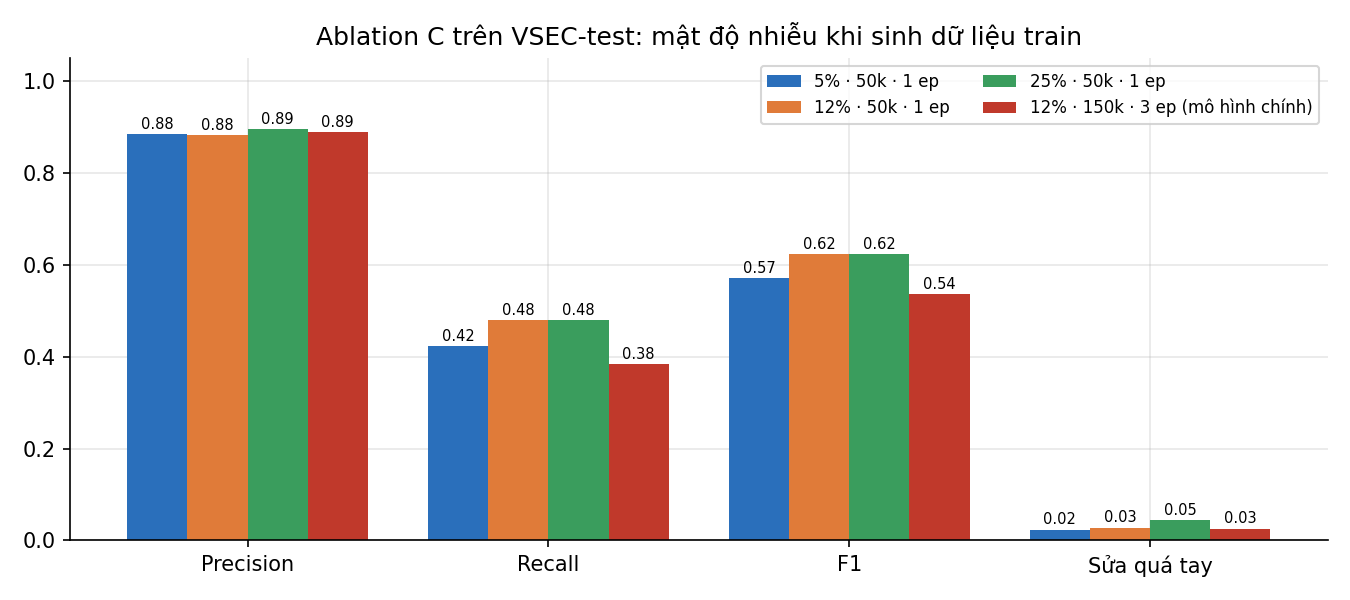
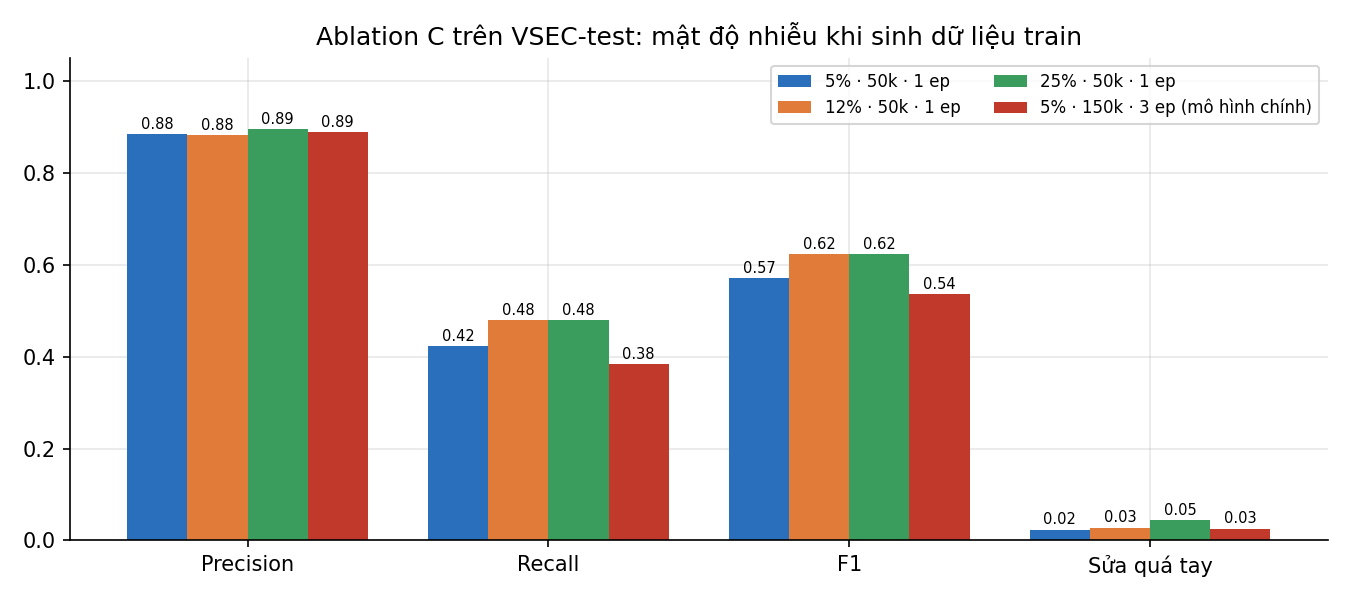
Sửa 4 lỗi review: nhãn mật độ nhiễu, BARTpho cắt câu dài, n-gram phá hòa, đóng gói v4
- Ablation C: mô hình chính train trên syn_train.jsonl mật độ 5% (không phải 12%); sửa nhãn,
  sinh lại bảng/hình, so sánh quy mô với d05 (0,572 -> 0,536 trên VSEC)
- BartphoCorrector: câu vượt max_length được chia đoạn (split_long), sửa từng đoạn rồi ghép
- CandidateGenerator: thêm chuỗi ứng viên vào khóa sắp xếp, kết quả không phụ thuộc PYTHONHASHSEED
  (dự đoán đã lưu của A và A+S4 trên 3 tập test không đổi)
- pack_for_kaggle: thêm syn_train_v4

Changed region(s): [[0.56, 0.12, 0.9644, 0.21]]

diff --git a/src/vspell/models/bartpho.py b/src/vspell/models/bartpho.py
@@ -232,11 +232,45 @@ def train(config: dict, train_path: str, val_path: str) -> str:
 
 # ---------------------------------------------------------------- suy luận
 
+_CUT_AFTER = (".", ",", ";", ":", "!", "?", "…", ")", '"')
+
+
+def split_long(text: str, n_tokens, max_tokens: int) -> list[str]:
+    """Chia câu dài thành các đoạn (tách tại khoảng trắng) sao cho mỗi đoạn có `n_tokens(đoạn) <= max_tokens`.
+
+    Ghép lại bằng " " ra đúng câu vào (câu đã `normalize` nên khoảng trắng là một dấu cách). Ưu tiên cắt sau
+    dấu câu nếu điểm cắt đó nằm ở nửa sau của đoạn. Một từ đơn lẻ dài hơn giới hạn vẫn thành một đoạn riêng
+    (tokenizer sẽ cắt nó). Câu ngắn trả về nguyên [text].
+    """
+    if n_tokens(text) <= max_tokens:
+        return [text]
+    chunks: list[str] = []
+    cur: list[str] = []
+    for w in text.split(" "):
+        if cur and n_tokens(" ".join(cur + [w])) > max_tokens:
+            cut = max((k for k in range(len(cur) // 2, len(cur)) if cur[k].endswith(_CUT_AFTER)), default=None)
+            if cut is None or cut == len(cur) - 1:
+                chunks.append(" ".join(cur))
+                cur = []
+            else:
+                chunks.append(" ".join(cur[:cut + 1]))
+                cur = cur[cut + 1:]
+            # phần còn lại cộng từ mới vẫn có thể quá dài -> đẩy tiếp
+            while cur and n_tokens(" ".join(cur + [w])) > max_tokens:
+                chunks.append(" ".join(cur))
+                cur = []
+        cur.append(w)
+    if cur:
+        chunks.append(" ".join(cur))
+    return chunks
+
+
 class BartphoCorrector:
     """Sửa lỗi theo batch bằng beam search. Đầu ra đã qua `normalize`.
 
     max_length: độ dài tối đa (token) của câu vào; câu ra được phép dài hơn câu vào một chút
-    (`len_ratio`, `len_extra`). Câu vào được sắp theo độ dài để giảm padding, rồi trả về đúng thứ tự.
+    (`len_ratio`, `len_extra`). Câu vào dài hơn `max_length` được chia đoạn (`split_long`), sửa từng đoạn
+    rồi ghép lại. Các đoạn được sắp theo độ dài để giảm padding, rồi trả về đúng thứ tự.
     """
 
     def __init__(self, checkpoint: str, num_beams: int = 4, max_length: int = 256, device: str | None = None,
@@ -264,11 +298,19 @@ class BartphoCorrector:
         from tqdm import tqdm
 
         srcs = [normalize(s) for s in sentences]
-        order = sorted(range(len(srcs)), key=lambda i: len(srcs[i]), reverse=True)
-        out: list[str | None] = [None] * len(srcs)
+        # Câu dài hơn max_length token: chia thành đoạn, sửa từng đoạn rồi ghép lại (không cắt mất phần cuối).
+        n_tok = lambda t: len(self.tokenizer(to_bartpho_style(t))["input_ids"])  # noqa: E731
+        pieces: list[str] = []
+        owner: list[int] = []
+        for i, src in enumerate(srcs):
+            for part in split_long(src, n_tok, self.max_length):
+                pieces.append(part)
+                owner.append(i)
+        order = sorted(range(len(pieces)), key=lambda i: len(pieces[i]), reverse=True)
+        fixed: list[str | None] = [None] * len(pieces)
         for start in tqdm(range(0, len(order), batch_size), desc="bartpho", unit="batch"):
             idx = order[start:start + batch_size]
-            batch = [to_bartpho_style(srcs[i]) for i in idx]
+            batch = [to_bartpho_style(pieces[i]) for i in idx]
             enc = self.tokenizer(batch, max_length=self.max_length, truncation=True,
                                  padding=True, return_tensors="pt").to(self.device)
             max_new = int(enc["input_ids"].shape[1] * self.len_ratio) + self.len_extra
@@ -276,5 +318,9 @@ class BartphoCorrector:
                 gen = self.model.generate(**enc, num_beams=self.num_beams, max_new_tokens=max_new,
                                           early_stopping=True)
             for i, text in zip(idx, self.tokenizer.batch_decode(gen, skip_special_tokens=True)):
-                out[i] = postprocess(srcs[i], text) if text.strip() else srcs[i]  # câu rỗng -> giữ nguyên câu vào
+                fixed[i] = postprocess(pieces[i], text) if text.strip() else pieces[i]  # rỗng -> giữ đoạn vào
+        parts: list[list[str]] = [[] for _ in srcs]
+        for i, text in zip(owner, fixed):
+            parts[i].append(text)  # type: ignore[arg-type]
+        out = [" ".join(p) for p in parts]
         return out  # type: ignore[return-value]

diff --git a/tests/test_bartpho.py b/tests/test_bartpho.py
@@ -101,3 +101,27 @@ def test_to_bartpho_style_and_postprocess():
     assert normalize(to_bartpho_style(s)) == s
     assert postprocess("a…", "a...") == "a…"
     assert postprocess("a...", "a...") == "a..."
+
+
+def test_split_long_keeps_all_words():
+    from vspell.models.bartpho import split_long
+
+    n = lambda t: len(t.split()) + 2  # noqa: E731  (2 token đặc biệt)
+    text = "một hai ba , bốn năm sáu bảy . tám chín mười mười một"
+    assert split_long("ngắn thôi", n, 10) == ["ngắn thôi"]
+    parts = split_long(text, n, 7)
+    assert " ".join(parts) == text
+    assert all(n(p) <= 7 for p in parts)
+    assert parts[0].endswith(",") or parts[0].endswith(".")  # ưu tiên cắt sau dấu câu
+
+
+def test_correct_long_sentence_not_truncated(tiny_model):
+    """Câu vượt max_length phải được chia đoạn: với mô hình 'chép lại' đầu vào, đầu ra phải đủ cả câu."""
+    corr = BartphoCorrector(tiny_model, num_beams=1, max_length=8)
+    corr.model.generate = lambda input_ids, **kw: input_ids  # mô hình đồng nhất
+    long = " ".join(s for s, _ in PAIRS[:3])  # 3 câu ~ 20 token, gấp ~2,5 lần giới hạn
+    short = PAIRS[4][0]
+    out = corr.correct([long, short], batch_size=2)
+    from vspell.normalize import normalize, split_syllables
+    # tokenizer tí hon giải mã có dấu cách trước dấu câu -> so theo âm tiết
+    assert [split_syllables(o) for o in out] == [split_syllables(normalize(x)) for x in (long, short)]

diff --git a/tests/test_ngram.py b/tests/test_ngram.py
@@ -90,3 +90,22 @@ def test_s4_rules_off_by_default_and_reduce_edits():
     # Từ không dấu, sai cấu trúc âm tiết TV ("vàngs" kiểu Telex vẫn sửa được): "vanga" không bị sửa thành "vàng"
     assert "vàng" not in [c for c, _ in s4._options("vanga", False)]
     assert base.edit_margin == 0.0 and not base.ignore_iy
+
+
+def test_candidates_deterministic_across_hash_seeds():
+    """Ứng viên bằng chi phí và tần suất phải ra cùng thứ tự dù PYTHONHASHSEED khác (cắt ở max_candidates)."""
+    import os
+    import subprocess
+    import sys
+    from pathlib import Path
+
+    code = ("from vspell.models.ngram_corrector import CandidateGenerator\n"
+            "lex = {w: 5 for w in ['cat', 'mat', 'hat', 'bot', 'but', 'ban', 'bao', 'bam', 'tat', 'nat']}\n"
+            "print([c for c, _, _ in CandidateGenerator(lex, 2, 3).candidates('bat')])")
+    src = str(Path(__file__).resolve().parents[1] / "src")
+    outs = set()
+    for seed in ["0", "1", "2", "3", "42"]:
+        env = {**os.environ, "PYTHONHASHSEED": seed, "PYTHONPATH": src, "PYTHONUTF8": "1"}
+        outs.add(subprocess.run([sys.executable, "-c", code], env=env, capture_output=True, text=True,
+                                check=True).stdout)
+    assert len(outs) == 1

diff --git a/src/vspell/models/ngram_corrector.py b/src/vspell/models/ngram_corrector.py
@@ -140,7 +140,7 @@ class CandidateGenerator:
         return outs
 
     def _candidates(self, tok: str) -> tuple[tuple[str, str, float], ...]:
-        """tok (chữ thường) -> ((ứng viên, nguồn, chi phí), ...) sắp theo chi phí rồi tần suất; không gồm tok."""
+        """tok (chữ thường) -> ((ứng viên, nguồn, chi phí), ...) sắp theo chi phí, tần suất, rồi chữ cái; không gồm tok."""
         found: dict[str, tuple[str, float]] = {}
 
         def add(cand: str, source: str) -> None:
@@ -167,7 +167,8 @@ class CandidateGenerator:
                 add(c, "edit1")
             elif dist == 2 and self.max_d >= 2:
                 add(c, "edit2")
-        ranked = sorted(found.items(), key=lambda kv: (-kv[1][1], -self.lexicon[kv[0]]))
+        # phá hòa bằng chính chuỗi ứng viên: `pool` là set nên thứ tự duyệt phụ thuộc PYTHONHASHSEED
+        ranked = sorted(found.items(), key=lambda kv: (-kv[1][1], -self.lexicon[kv[0]], kv[0]))
         return tuple((c, src, cost) for c, (src, cost) in ranked[:self.max_candidates])
 
 

diff --git a/scripts/analyze_errors.py b/scripts/analyze_errors.py
@@ -49,7 +49,7 @@ MODEL_LABEL = {"ngram": "A: n-gram (3-gram KN)", "bartpho": "C: BARTpho v3", "id
                "bartpho_v4": "C: BARTpho v4 (nhiễu dấu)", "bartpho_d12": "C: BARTpho d12 (50k, 1 ep)"}
 # Ablation C (mật độ nhiễu khi sinh dữ liệu train): tag -> (mật độ, nhãn)
 ABLATION_C = {"bartpho_d05": (0.05, "5% · 50k · 1 ep"), "bartpho_d12": (0.12, "12% · 50k · 1 ep"),
-              "bartpho_d25": (0.25, "25% · 50k · 1 ep"), "bartpho": (0.12, "12% · 150k · 3 ep\n(mô hình chính)")}
+              "bartpho_d25": (0.25, "25% · 50k · 1 ep"), "bartpho": (0.05, "5% · 150k · 3 ep\n(mô hình chính)")}
 CAT_LABEL = {"sua_dung": "Sửa đúng", "sua_sai": "Sửa sai ứng viên", "bo_sot": "Bỏ sót",
              "sua_qua_tay": "Sửa quá tay"}
 SUB_LABEL = {"so_ky_hieu": "Số/ký hiệu", "ten_rieng": "Tên riêng/viết hoa",

diff --git a/scripts/pack_for_kaggle.py b/scripts/pack_for_kaggle.py
@@ -11,7 +11,7 @@ import json
 import os
 from pathlib import Path
 
-TRAIN = ["syn_train", "syn_train_d05", "syn_train_d12", "syn_train_d25"]
+TRAIN = ["syn_train", "syn_train_d05", "syn_train_d12", "syn_train_d25", "syn_train_v4"]
 EVAL = ["syn_val", "syn_test", "vsec_test", "viwiki_test"]
 
 

diff --git a/report/phan_tich_A_vs_C.md b/report/phan_tich_A_vs_C.md
@@ -89,10 +89,12 @@ Kết quả trên VSEC-test (`ablation_noise_density.csv`, hình `ablation_noise
 | 5% nhiễu · 50k cặp · 1 epoch | 0,884 | 0,422 | 0,572 | 0,024 |
 | 12% · 50k · 1 epoch | 0,882 | **0,480** | 0,622 | 0,028 |
 | 25% · 50k · 1 epoch | 0,895 | 0,479 | **0,624** | 0,045 |
-| 12% · 150k · 3 epoch (mô hình chính) | 0,888 | 0,384 | 0,536 | 0,026 |
+| 5% · 150k · 3 epoch (mô hình chính, v3) | 0,888 | 0,384 | 0,536 | 0,026 |
+
+*Mô hình chính train trên `syn_train.jsonl`, sinh bằng `configs/noise.yaml` với mật độ 5% (`syn_train.stats.json`: `syllable_error_rate` 0,05), không phải 12%. Vì vậy mốc so sánh đúng cho quy mô huấn luyện là dòng 5% · 50k, không phải dòng 12%.*
 
 - **Mật độ nhiễu:** tăng từ 5% lên 12% làm recall tăng 6 điểm, còn precision gần như không đổi. Lên 25% thì F1 không tăng thêm, trong khi tỉ lệ sửa quá tay gần gấp đôi. Mức 12% là điểm cân bằng hợp lý.
-- **Quy mô huấn luyện:** mô hình chính được train nhiều hơn khoảng 9 lần (150k cặp × 3 epoch). Nó tốt hơn trên Syn-test nhưng **kém hơn** trên VSEC (0,536 so với 0,622). Train càng lâu trên dữ liệu tổng hợp, mô hình càng khớp với phân bố nhiễu tự sinh và càng ít dám sửa những lỗi không giống dữ liệu train. Vì vậy, chọn checkpoint theo Syn-val không phải là tiêu chí tốt khi mục tiêu là lỗi thật.
+- **Quy mô huấn luyện** (cùng mật độ 5%): mô hình chính được train nhiều hơn khoảng 9 lần (150k cặp × 3 epoch). Nó tốt hơn trên Syn-test nhưng **kém hơn** trên VSEC (F1 0,536 so với 0,572; recall 0,384 so với 0,422). Train càng lâu trên dữ liệu tổng hợp, mô hình càng khớp với phân bố nhiễu tự sinh và càng ít dám sửa những lỗi không giống dữ liệu train. Vì vậy, chọn checkpoint theo Syn-val không phải là tiêu chí tốt khi mục tiêu là lỗi thật.
 
 ### 4.2. Loại lỗi sinh nhiễu (v4)
 
@@ -196,5 +198,5 @@ Các ví dụ được đánh số theo `outputs/tables/error_examples.md`. Ví 
 3. **Hai mô hình bổ sung cho nhau.** C mạnh ở lỗi sai nhiều ký tự và lỗi cần ngữ cảnh rộng, A mạnh ở lỗi dấu. Kết hợp hai mô hình (ví dụ dùng A tạo ứng viên rồi C xếp hạng, hoặc ensemble) là hướng phát triển tự nhiên.
 4. **Kết quả ablation C:**
    - Tăng mật độ nhiễu lên 12% có lợi.
-   - Train lâu hơn trên dữ liệu tổng hợp lại có hại khi chuyển sang lỗi thật.
+   - Train lâu hơn trên dữ liệu tổng hợp lại có hại khi chuyển sang lỗi thật (cùng mật độ 5%: 0,572 → 0,536 trên VSEC).
    - Loại lỗi sinh nhiễu là yếu tố ảnh hưởng lớn nhất (+12,7 điểm F1 trên VSEC).

diff --git a/README.md b/README.md
@@ -37,7 +37,7 @@ Correction F1 mức âm tiết (`outputs/tables/main_results.csv`; phân tích: 
 |---|---|---|---|
 | A: n-gram 3-gram KN | 0,898 | 0,778 | 0,304 |
 | A + S4 (luật giảm sửa quá tay, chỉnh trên VSEC-dev) | 0,860 | **0,784** | **0,453** |
-| C: BARTpho v3 (nhiễu gốc, 150k cặp × 3 epoch) | **0,959** | 0,536 | 0,240 |
+| C: BARTpho v3 (nhiễu gốc 5%, 150k cặp × 3 epoch) | **0,959** | 0,536 | 0,240 |
 | C: BARTpho v4 (nhiễu giàu lỗi dấu, 50k cặp × 1 epoch) | 0,912 | 0,749 | 0,322 |
 
 Ablation: A theo bậc n-gram × smoothing (`ngram_perplexity.csv`); C theo mật độ nhiễu 5/12/25% (`ablation_noise_density.csv`) và loại lỗi sinh nhiễu (v4 so với d12).
